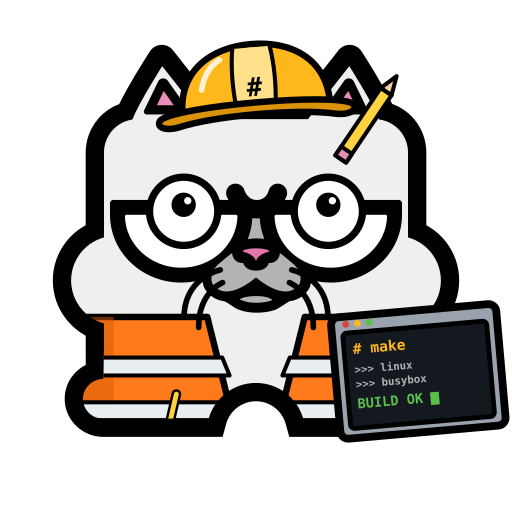
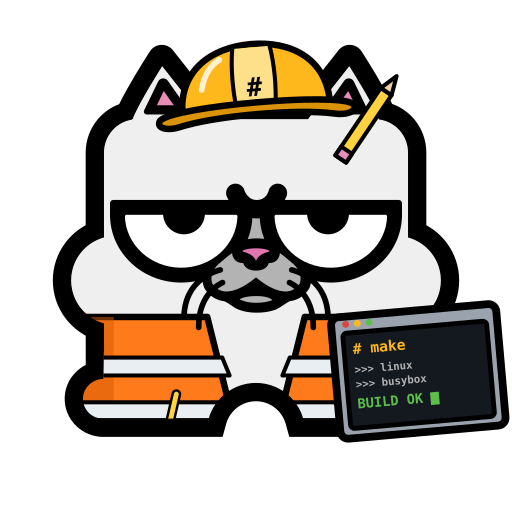
Root Kun: vendor the pinned upstream SVG, calm BUILD OK, fix licence path
gen.py now reads art-src/upstream/mister_kun_fullcolor.svg, vendored from
baxysquare/mister_kun at 97df77b with its LICENSE, and refuses to run on a
sha256 mismatch: the path extraction depends on the file's exact path order.
Regenerating from it reproduces every committed image byte for byte.

The BUILD OK pose drops the wide eyes, which came from the ItsAlive
electrocution pose, for Kun's usual deadpan. The README's artwork licence
bullet points at the real board/mister/de10nano/installer-splash/ path.

Changed region(s): [[0.5625, 0.3125, 0.7188, 0.5], [0.2812, 0.3125, 0.4375, 0.5]]

diff --git a/art-src/gen.py b/art-src/gen.py
@@ -3,16 +3,22 @@
 Same pipeline as the Tasty, Seedy and ItsAlive art: MiSTer Kun's paths from the upstream remaster,
 hand-written SVG props on top, inkscape for PNGs.
 Run: python3 art-src/gen.py  (writes ../art and ../art/icons)
-Needs mister_kun_fullcolor.svg from https://github.com/baxysquare/mister_kun (set KUN_SVG to its path).
+upstream/mister_kun_fullcolor.svg is vendored from baxysquare/mister_kun at KUN_COMMIT and hash-checked,
+because the path extraction below depends on its exact path order.
 """
-import re, subprocess, os
+import hashlib, re, subprocess, os
 
 HERE = os.path.dirname(os.path.abspath(__file__))
 ART = os.path.join(HERE, "..", "art")
 ICONS = os.path.join(ART, "icons")
-KUN_SRC = os.environ.get("KUN_SVG") or exit("set KUN_SVG to the path of mister_kun_fullcolor.svg")
+KUN_SRC = os.environ.get("KUN_SVG", os.path.join(HERE, "upstream", "mister_kun_fullcolor.svg"))
+KUN_COMMIT = "97df77b74f15e767e698293e04be559c7e8b788b"
[1 lines of base64/hex data omitted]
 
-src = open(KUN_SRC).read()
+raw = open(KUN_SRC, "rb").read()
+if hashlib.sha256(raw).hexdigest() != KUN_SHA256:
+    exit(f"{KUN_SRC}: sha256 mismatch, expected mister_kun_fullcolor.svg from baxysquare/mister_kun@{KUN_COMMIT}")
+src = raw.decode()
 PATHS = [p for p in re.findall(r'<path [^>]*/>', src) if 'm-81.806' not in p]
 OUTLINE, FILL, FACE = PATHS[0], PATHS[1], PATHS[2:]
 FILL_D = re.search(r'd="([^"]*)"', FILL).group(1)
@@ -77,15 +83,9 @@ def pencil_ear():
             f'<rect x="-110" y="-16" width="26" height="32" fill="{PINK}" {S10}/></g>')
 
 
-def kun(eyes="sleepy"):
+def kun():
     face = "".join(FACE)
-    out = f'<g id="kun">{OUTLINE}{FILL}{vest()}{face}'
-    if eyes == "wide":
-        # the build went green: eyes open, pupils up
-        for cx in (322, 678):
-            out += f'<circle cx="{cx}" cy="430" r="84" fill="#fff" stroke="#000" stroke-width="18"/>'
-            out += f'<circle cx="{cx}" cy="414" r="30" fill="#000"/><circle cx="{cx + 10}" cy="404" r="9" fill="#fff"/>'
-    return out + pencil_ear() + hardhat() + '</g>'
+    return f'<g id="kun">{OUTLINE}{FILL}{vest()}{face}{pencil_ear()}{hardhat()}</g>'
 
 
 # --- props (centred on 0,0, about +-150) ------------------------------------------------------------
@@ -201,13 +201,13 @@ ICON_ONLY = {
 }
 
 
-def with_prop(name, x=880, y=830, s=1.25, **kw):
-    return DEFS + kun(**kw) + f'<g transform="translate({x} {y}) scale({s})">{PROP[name]}</g>'
+def with_prop(name, x=880, y=830, s=1.25):
+    return DEFS + kun() + f'<g transform="translate({x} {y}) scale({s})">{PROP[name]}</g>'
 
 
 def built():
-    """The build went green: wide eyes and a terminal reading BUILD OK."""
-    return with_prop("terminal", 900, 830, 1.2, eyes="wide")
+    """The build went green: a terminal reading BUILD OK."""
+    return with_prop("terminal", 900, 830, 1.2)
 
 
 # --- output helpers (same as the Tasty, Seedy and ItsAlive pipeline) --------------------------------

diff --git a/README.md b/README.md
@@ -598,7 +598,7 @@ runs as root. (The other MiSTer Kun projects are named after what Kun is doing, 
 
 | | | |
 |:-:|:-:|:-:|
-| <img src="art/root-kun.png" width="200" alt="Root Kun: MiSTer Kun in a yellow hard hat with a # on the front, a hi-vis vest and a pencil behind the ear"> | <img src="art/root-kun-built.png" width="200" alt="Root Kun wide-eyed beside a terminal reading # make, BUILD OK"> | <img src="art/root-kun-crane.png" width="200" alt="Root Kun with a crane lowering a block labelled rootfs"> |
+| <img src="art/root-kun.png" width="200" alt="Root Kun: MiSTer Kun in a yellow hard hat with a # on the front, a hi-vis vest and a pencil behind the ear"> | <img src="art/root-kun-built.png" width="200" alt="Root Kun beside a terminal reading # make, BUILD OK"> | <img src="art/root-kun-crane.png" width="200" alt="Root Kun with a crane lowering a block labelled rootfs"> |
 | **Site foreman** | **BUILD OK** | **Topping out** |
 | <img src="art/root-kun-blueprint.png" width="200" alt="Root Kun with a defconfig blueprint"> | <img src="art/root-kun-kernel.png" width="200" alt="Root Kun with a corn kernel marked LTS"> | <img src="art/root-kun-patches.png" width="200" alt="Root Kun with a stack of .patch files"> |
 | **defconfig** | **LTS kernel** | **Every patch in-tree** |
@@ -611,8 +611,9 @@ comes as SVG and PNG in [`art/`](art/), along with the [banner](art/banner.png) 
 [social preview](art/social-preview.png); small icons
 (<img src="art/icons/hardhat-48.png" width="20" alt=""> <img src="art/icons/cone-48.png" width="20" alt="">
 <img src="art/icons/brick-48.png" width="20" alt="">) live in [`art/icons/`](art/icons/). The generator
-is [`art-src/gen.py`](art-src/gen.py): it needs Inkscape, Open Sans ExtraBold Italic, Noto Sans JP,
-DejaVu Sans Mono and the upstream `mister_kun_fullcolor.svg` (pass its path in `KUN_SVG`).
+is [`art-src/gen.py`](art-src/gen.py): it needs Inkscape, Open Sans ExtraBold Italic, Noto Sans JP
+and DejaVu Sans Mono, and draws on the upstream `mister_kun_fullcolor.svg` vendored (hash-checked, at a
+pinned commit) in [`art-src/upstream/`](art-src/upstream/).
 Changes under `art/` and `art-src/` don't trigger an image build
 ([`docs/ci.md`](docs/ci.md#gate-denylist)).
 
@@ -628,7 +629,10 @@ no vendored binaries, hash-pinned sources, and no behaviour changes hidden in bu
 - **Repository code:** GPLv3 ([`LICENSE`](LICENSE)).
 - **Kernel patches** (`board/mister/*/linux-patches*/`): GPLv2.
 - **Packages:** their upstream licenses; each release's `legal-info` is the authoritative SBOM.
-- **MiSTer Kun artwork** (`installer-splash/`, `art/`): the mascot by **HeWhoisRed**,
+- **MiSTer Kun artwork** ([`board/mister/de10nano/installer-splash/`](board/mister/de10nano/installer-splash/),
+  [`art/`](art/), [`art-src/upstream/`](art-src/upstream/)): the mascot by **HeWhoisRed**,
   remastered by [baxysquare/mister_kun](https://github.com/baxysquare/mister_kun). It is
-  free to use and remix with attribution; see `installer-splash/upstream/LICENSE`. Root Kun
-  in `art/` is derived from that remaster and shared on the same terms. None of it is GPLv3.
+  free to use and remix with attribution; see
+  [`board/mister/de10nano/installer-splash/upstream/LICENSE`](board/mister/de10nano/installer-splash/upstream/LICENSE).
+  Root Kun in `art/` is derived from that remaster and shared on the same terms. None of it
+  is GPLv3.
